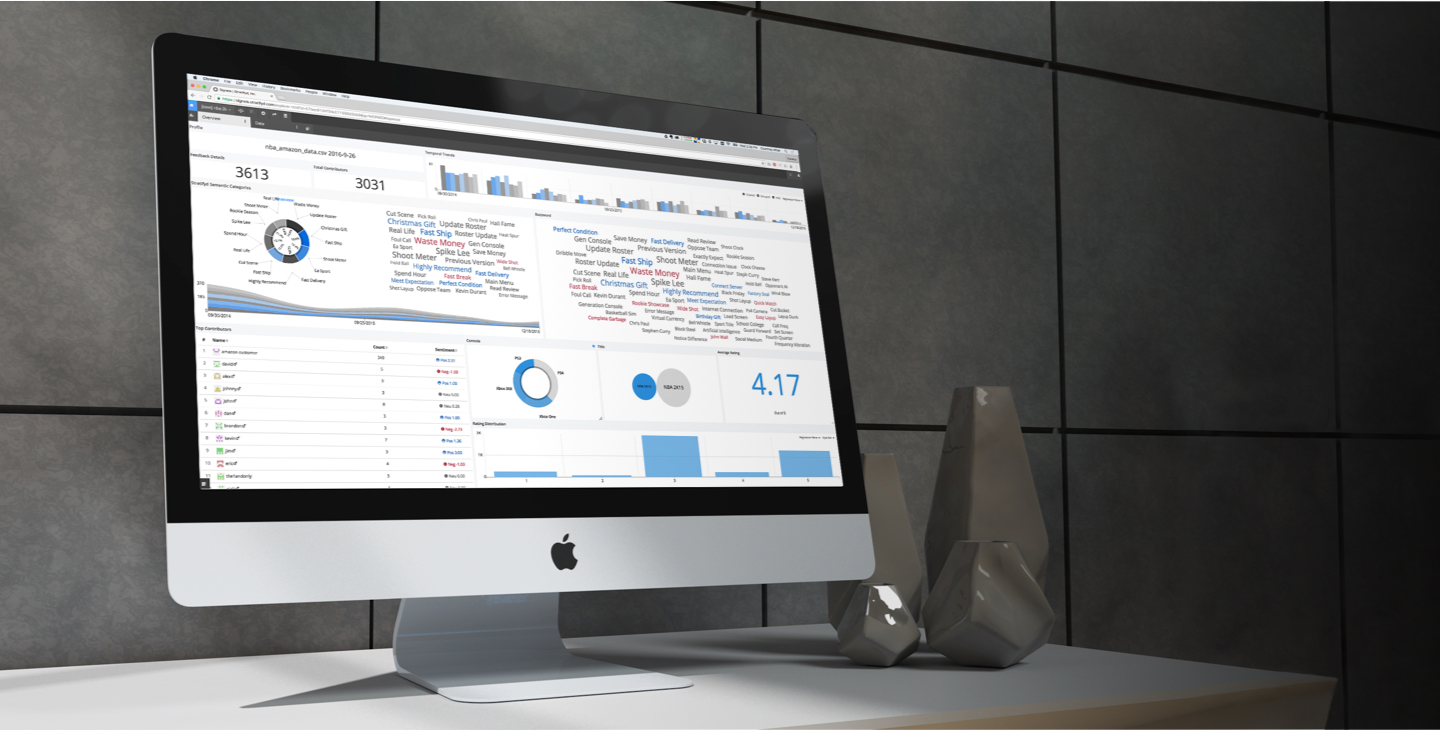
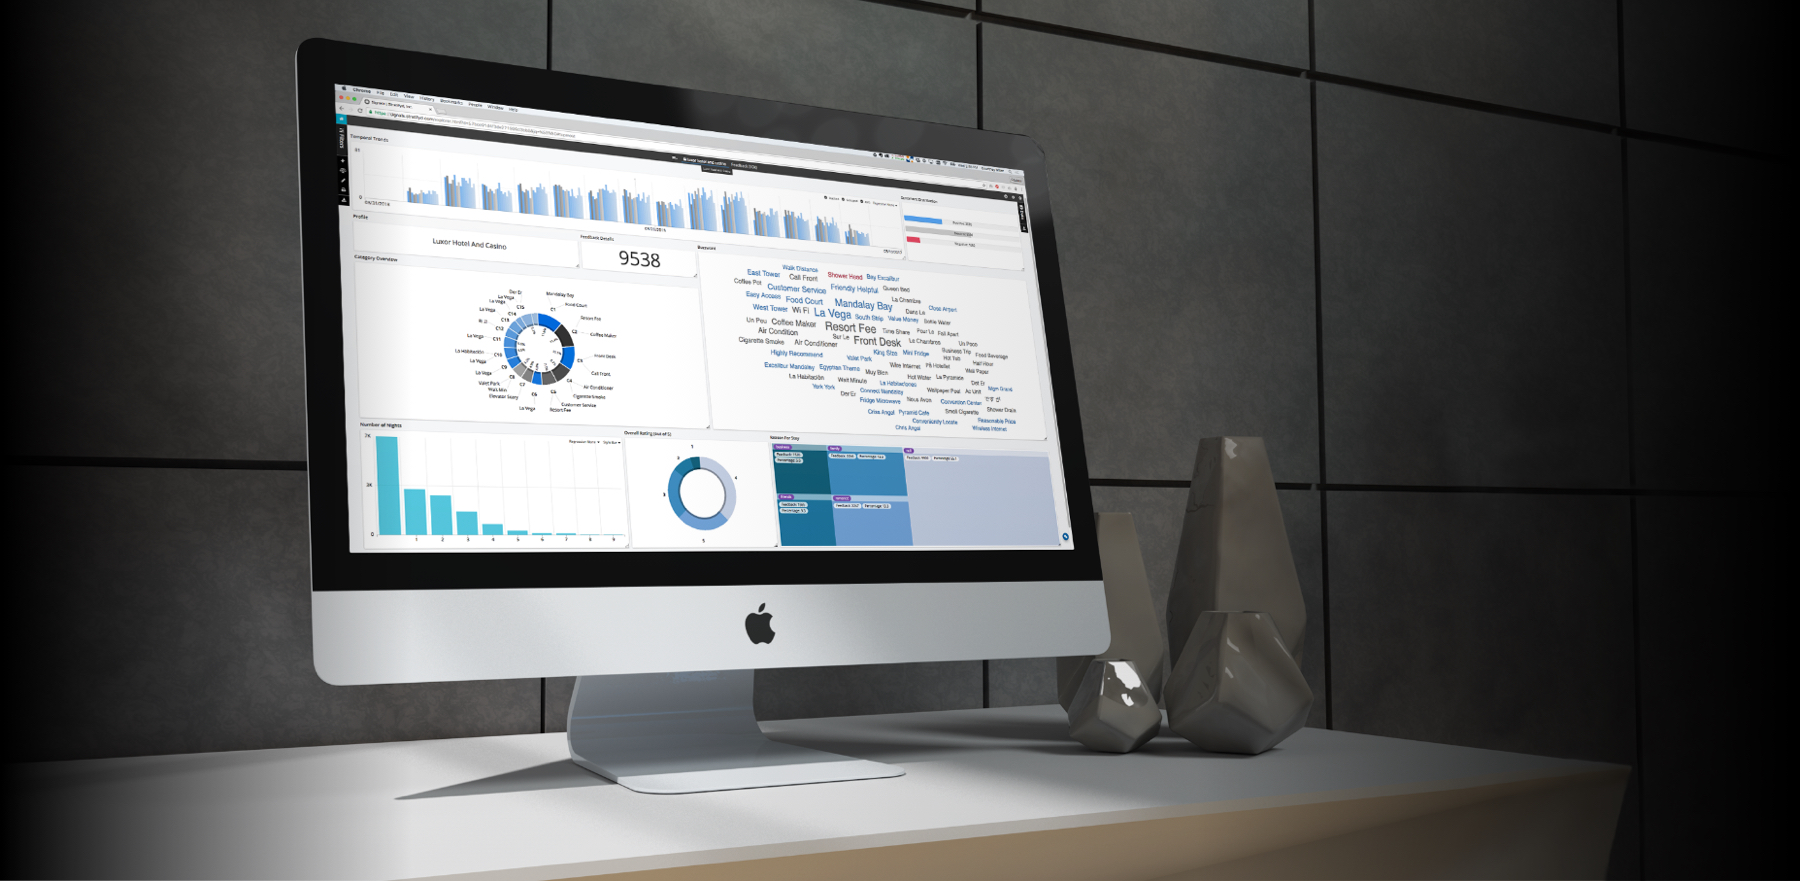
updates

diff --git a/source/assets/javascripts/medium_feed.js b/source/assets/javascripts/medium_feed.js
@@ -46,7 +46,7 @@ $(document).ready(function(){
         limit: 10,
         filterLimit: 9,
         layoutTemplate: "<div class='row feed-container'>{entries}</div>",
-        entryTemplate: '<div class="col-md-6 col-lg-4 blog-card feed-item"><a target="_blank" href="{url}" class="card"><div class="post-image-container">{teaserImage}</div><div class="card-block"><h4 class="card-title">{title}</h4><div class="post-body body-copy-small">{shortBodyPlain}</div></div></a></div>',
+        entryTemplate: '<div class="col-md-6 col-lg-4 blog-card feed-item"><a target="_blank" href="{url}" class="card"><div class="post-image-container">{teaserImage}</div><div class="card-block"><h4 class="serif-md">{title}</h4><div class="post-body body-copy-small">{shortBodyPlain}</div></div></a></div>',
         ssl: true,
         filter: function(entry, tokens) {
           return tokens.index > 0
@@ -67,7 +67,7 @@ $(document).ready(function(){
       {
         limit: 3,
         layoutTemplate: "<div class='row feed-container'>{entries}</div>",
-        entryTemplate: '<div class="col-md-6 col-lg-4 blog-card feed-item"><a target="_blank" href="{url}" class="card"><div class="post-image-container">{teaserImage}</div><div class="card-block"><h4 class="card-title">{title}</h4><div class="post-body body-copy-small">{shortBodyPlain}</div></div></a></div>',
+        entryTemplate: '<div class="col-md-6 col-lg-4 blog-card feed-item"><a target="_blank" href="{url}" class="card"><div class="post-image-container">{teaserImage}</div><div class="card-block"><h4 class="serif-md">{title}</h4><div class="post-body body-copy-small">{shortBodyPlain}</div></div></a></div>',
         ssl: true,
         // success: function() {
         //   $('.feed-item').matchHeight({

diff --git a/source/assets/stylesheets/components/_jumbotrons.sass b/source/assets/stylesheets/components/_jumbotrons.sass
@@ -16,19 +16,19 @@
   height: 550px
 
 #signalsJumbo
-  background-image: url("../images/screenshots/Product-Header-iMac-Mockup-overlay.jpg")
+  background-image: url("../images/screenshots/Product-Header-iMac-Mockup-overlay3.jpg")
   background-position: center
-  background-size: contain
+  background-size: cover
   background-color: $util-black
   background-repeat: no-repeat
   height: 550px
   padding-top: 200px
-  @media screen and (min-width: $break-xl)
-    background-position: top
-
+  @media screen and (max-width: $break-med)
+    background-position: 40% 20%
+    height: 400px
 
 #head2headJumbo
-  background-image: url("../images/head-to-head.jpg")
+  background-image: url("../images/head-to-head-new.jpg")
   background-position: center
 
 #specsJumbo
